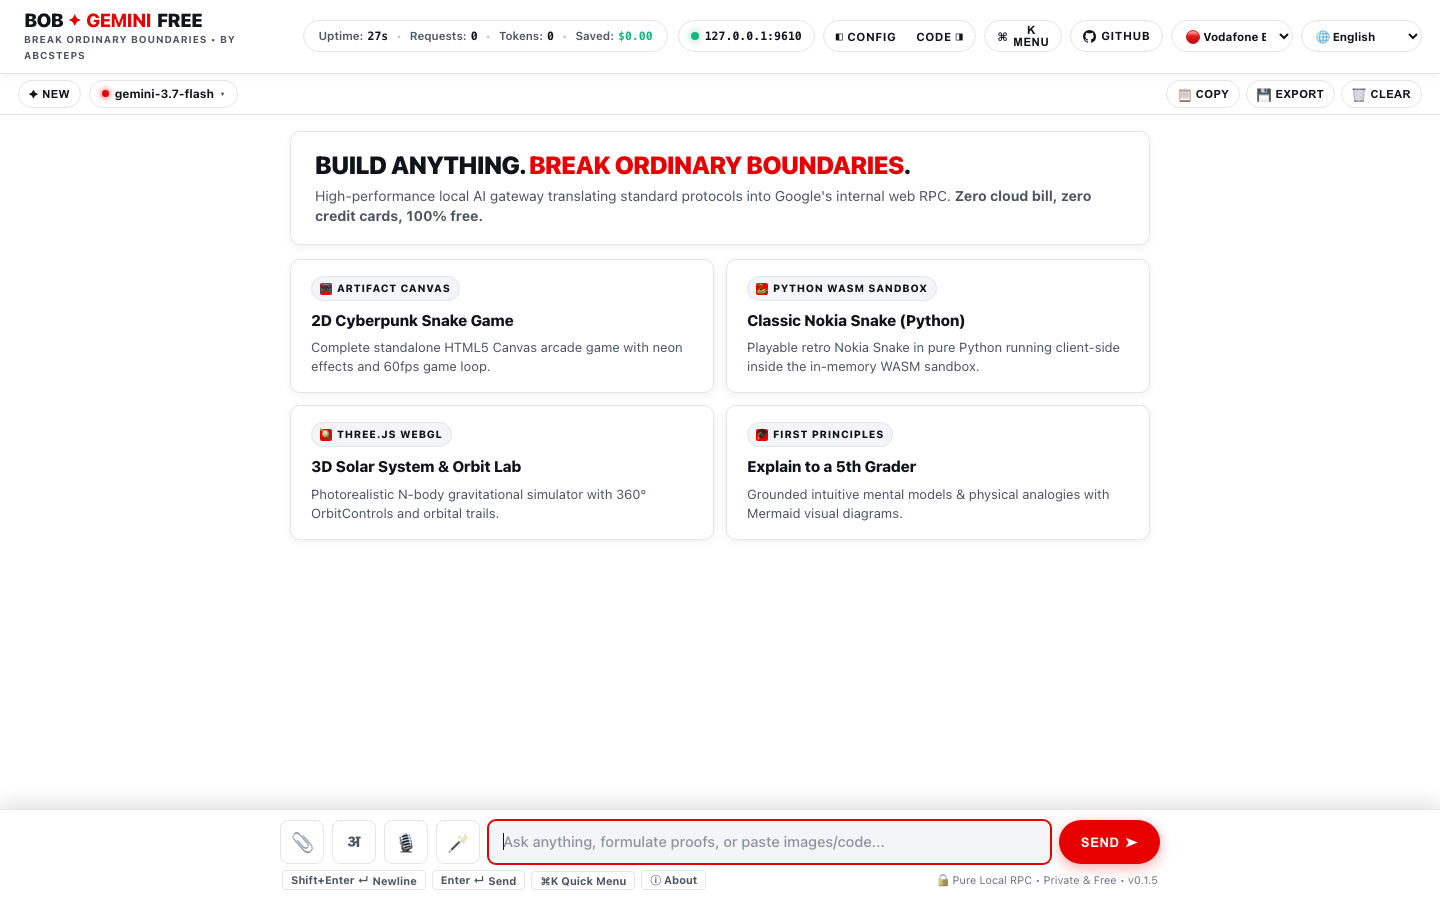
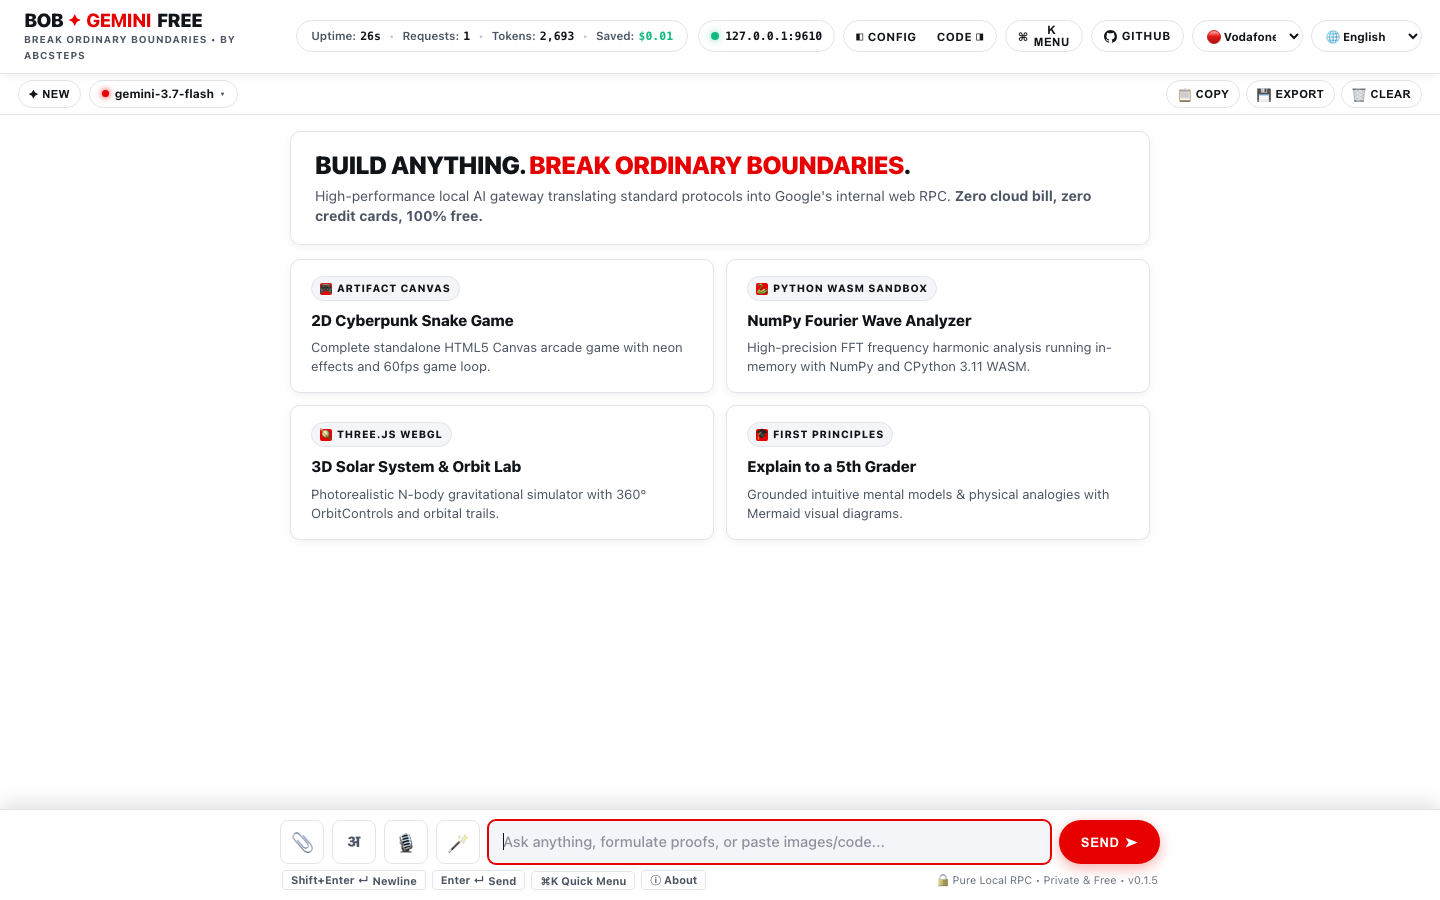
feat(ui): dedicate Snake to HTML5 Canvas Studio & showcase NumPy scientific FFT in Python WASM

Changed region(s): [[0.2188, 0.0311, 0.9688, 0.0622], [0.5, 0.3422, 0.7812, 0.4356]]

diff --git a/internal/server/playground.html b/internal/server/playground.html
@@ -3607,13 +3607,13 @@ tr:hover td { background: rgba(255, 255, 255, 0.02); }
               <div class="starter-card-title">2D Cyberpunk Snake Game</div>
               <div class="starter-card-desc">Complete standalone HTML5 Canvas arcade game with neon effects and 60fps game loop.</div>
             </div>
-            <div class="starter-card" onclick="selectStarter('py_snake')">
+            <div class="starter-card" onclick="selectStarter('py_fourier')">
               <div class="badge-chip">
                 <span class="mini-orb">🐍</span>
                 <span>PYTHON WASM SANDBOX</span>
               </div>
-              <div class="starter-card-title">Classic Nokia Snake (Python)</div>
-              <div class="starter-card-desc">Playable retro Nokia Snake in pure Python running client-side inside the in-memory WASM sandbox.</div>
+              <div class="starter-card-title">NumPy Fourier Wave Analyzer</div>
+              <div class="starter-card-desc">High-precision FFT frequency harmonic analysis running in-memory with NumPy and CPython 3.11 WASM.</div>
             </div>
             <div class="starter-card" onclick="selectStarter('orbit')">
               <div class="badge-chip">
@@ -3888,7 +3888,7 @@ const STARTER_PROMPTS_HI = {
   snake: "HTML5 Canvas में एक पूर्ण, स्टैंडअलोन 2D साइबरपंक स्नेक आर्केड गेम बनाएं। इसमें नियॉन ग्लो, खाना खाने पर कण विस्फोट (particles), बढ़ती कठिनाई, स्मूथ 60fps गेम लूप, हाई स्कोर ट्रैकिंग, Web Audio API ध्वनि प्रभाव और टच/तीर कुंजियों के नियंत्रण शामिल करें। संपूर्ण कोड एक ```html``` ब्लॉक में दें।",
   orbit: "Three.js (CDN के माध्यम से) का उपयोग करके HTML5 में एक पूर्ण, यथार्थवादी, इंटरैक्टिव 3D सौर मंडल व ग्रहीय कक्षा सिमुलेशन बनाएं। इसमें प्रकाशयुक्त सूर्य, G*m1*m2/r^2 गुरुत्वाकर्षण के साथ केप्लेरियन कक्षीय भौतिकी, चमकती कक्षीय रेखाएं, शनि के छल्ले, 360° OrbitControls (pan, rotate, zoom) और गति स्लाइडर शामिल करें। संपूर्ण कोड एक ```html``` ब्लॉक में दें।",
   compound: "Chart.js के साथ HTML5 में एक पूर्ण, स्टैंडअलोन इंटरैक्टिव वित्तीय चक्रवृद्धि ब्याज व धन वृद्धि कैलकुलेटर बनाएं। इसमें प्रारंभिक निवेश, मासिक योगदान, वार्षिक रिटर्न % और अवधि के लिए स्लाइडर्स शामिल करें। संचयी विकास का इंटरैक्टिव चार्ट प्रस्तुत करें। संपूर्ण कोड एक ```html``` ब्लॉक में दें।",
-  py_snake: "Pyodide WebAssembly के लिए शुद्ध Python में एक पूर्ण, रेट्रो नोकिया 3310 स्नेक गेम सिमुलेशन इंजन लिखें। इसमें 20x10 ASCII ग्रिड बोर्ड, गतिशील भोजन उत्पादन, स्नेक मूवमेंट, टकराव भौतिकी, स्कोर काउंटर और स्टेप-बाय-स्टेप स्क्रीन फ्रेम्स शामिल करें। ब्लॉकिंग input() या पॉपअप का उपयोग न करें ताकि यह सीधे चले। संपूर्ण कोड एक ```python``` ब्लॉक में दें।",
+  py_fourier: "Pyodide WebAssembly के लिए NumPy का उपयोग करके एक संपूर्ण वैज्ञानिक कम्प्यूटेशनल स्क्रिप्ट लिखें जो एक जटिल सिग्नल पर फास्ट फूरियर ट्रांसफॉर्म (FFT) विश्लेषण करे। पावर स्पेक्ट्रल घनत्व, पीक आवृत्तियों की गणना करें और एक संरचित ASCII स्पेक्ट्रम ग्राफ व मेट्रिक्स तालिका प्रिंट करें। संपूर्ण कोड एक ```python``` ब्लॉक में दें।",
   schrodinger: "डी ब्रोग्ली तरंग संबंधों और हैमिल्टनियन यांत्रिकी का उपयोग करते हुए प्रथम सिद्धांतों से समय-निर्भर श्रोडिंगर तरंग समीकरण (Time-Dependent Schrödinger Wave Equation) की KaTeX LaTeX गणितीय व्युत्पत्ति तैयार करें। प्रत्येक चरण को स्पष्ट समीकरणों के साथ समझाएं।",
   proof: "[विषय/सूत्र] के लिए चरण-दर-चरण गणितीय प्रमाण और KaTeX व्युत्पत्ति तैयार करें।",
   audit: "[सिस्टम/कोडबेस] का व्यापक प्रथम-सिद्धांत वास्तुकला विश्लेषण, सुरक्षा समीक्षा और तकनीकी बॉटलनेक ऑडिट करें।",
@@ -6250,7 +6250,7 @@ const STARTER_PROMPTS = {
   snake: "Build a complete, standalone 2D Cyberpunk Snake arcade game in HTML5 Canvas. Include neon glow aesthetics, particle explosions when eating food, increasing difficulty, smooth 60fps game loop, high score tracking, sound effects via Web Audio API, and touch + arrow key controls. Output the entire runnable code inside a single ```html``` block.",
   orbit: "Build a complete, photorealistic, interactive 3D Solar System & Planetary Orbit Simulation in standalone HTML5 using Three.js (via CDN). Include a glowing Sun with point light illumination, multi-planet Keplerian orbital mechanics with G*m1*m2/r^2 gravity, glowing orbital trail lines, textured planets, Saturn planetary rings, particle starfield galaxy background, full 360° OrbitControls (pan, rotate, mouse/touch zoom), and real-time physics controls (Simulation Speed 1x-100x, Pause/Play, Reset). Output the entire runnable self-contained code inside a single ```html``` block.",
   compound: "Build a complete, standalone interactive Financial Compound Wealth & Freedom Calculator in HTML5 with Chart.js. Include dynamic sliders for Initial Investment, Monthly Contribution, Annual Return %, and Investment Horizon (years). Render an interactive stacked growth chart showing Total Contributed vs Total Interest Earned, with inflation adjustment toggles and annual breakdown data tables. Output the entire runnable code inside a single ```html``` block.",
-  py_snake: "Write a complete, playable retro Nokia 3310 Snake game in pure Python for Pyodide WebAssembly. Build an animated simulation engine with a 20x10 ASCII grid board, dynamic fruit generation, real-time snake movement with collision physics, increasing speed levels, and step-by-step score telemetry. Do NOT use blocking input() or browser dialog popups—ensure it executes smoothly and renders clear ASCII screen frames. Output the entire runnable self-contained code inside a single ```python``` block so it runs directly in BOB's in-browser WebAssembly sandbox.",
+  py_fourier: "Write a complete Python scientific computing script using numpy to perform Fast Fourier Transform (FFT) harmonic analysis on a noisy composite signal (fundamental frequency + 3rd and 5th harmonics). Calculate power spectral density, peak frequencies, and print a formatted ASCII spectrum graph and signal metrics table. Output the entire runnable code inside a single ```python``` block so it runs instantly in BOB's in-browser CPython 3.11 WebAssembly sandbox.",
   schrodinger: "Derive the Time-Dependent Schrödinger Wave Equation from first principles using de Broglie matter wave relations (E = \\hbar\\omega, p = \\hbar k), the classical energy conservation equation (E = p^2/2m + V), and differential wave operators. Formulate every step with clean, rigorous KaTeX LaTeX mathematical notation, detailing boundary conditions, the physical meaning of the complex probability wave function \\Psi(x,t), and probability conservation. Output clear LaTeX equations.",
   quantum: "Explain the mathematical principles of quantum superposition and entanglement with step-by-step reasoning and Dirac bra-ket matrices.",
   python: "Write a complete Python script using the official openai-python SDK configured to stream responses from BOB Gemini Free at http://127.0.0.1:9610/v1 with model gemini-3.7-flash and extract reasoning_content thinking tokens in real-time.",
@@ -6296,13 +6296,13 @@ function renderMessages() {
           <div class="starter-card-title">2D Cyberpunk Snake Game</div>
           <div class="starter-card-desc">Complete standalone HTML5 Canvas arcade game with neon effects and 60fps game loop.</div>
         </div>
-        <div class="starter-card" onclick="selectStarter('py_snake')">
+        <div class="starter-card" onclick="selectStarter('py_fourier')">
           <div class="badge-chip">
             <span class="mini-orb">🐍</span>
             <span>PYTHON WASM SANDBOX</span>
           </div>
-          <div class="starter-card-title">Classic Nokia Snake (Python)</div>
-          <div class="starter-card-desc">Playable retro Nokia Snake in pure Python running client-side inside the in-memory WASM sandbox.</div>
+          <div class="starter-card-title">NumPy Fourier Wave Analyzer</div>
+          <div class="starter-card-desc">High-precision FFT frequency harmonic analysis running in-memory with NumPy and CPython 3.11 WASM.</div>
         </div>
         <div class="starter-card" onclick="selectStarter('orbit')">
           <div class="badge-chip">

diff --git a/web/index.html b/web/index.html
@@ -3607,13 +3607,13 @@ tr:hover td { background: rgba(255, 255, 255, 0.02); }
               <div class="starter-card-title">2D Cyberpunk Snake Game</div>
               <div class="starter-card-desc">Complete standalone HTML5 Canvas arcade game with neon effects and 60fps game loop.</div>
             </div>
-            <div class="starter-card" onclick="selectStarter('py_snake')">
+            <div class="starter-card" onclick="selectStarter('py_fourier')">
               <div class="badge-chip">
                 <span class="mini-orb">🐍</span>
                 <span>PYTHON WASM SANDBOX</span>
               </div>
-              <div class="starter-card-title">Classic Nokia Snake (Python)</div>
-              <div class="starter-card-desc">Playable retro Nokia Snake in pure Python running client-side inside the in-memory WASM sandbox.</div>
+              <div class="starter-card-title">NumPy Fourier Wave Analyzer</div>
+              <div class="starter-card-desc">High-precision FFT frequency harmonic analysis running in-memory with NumPy and CPython 3.11 WASM.</div>
             </div>
             <div class="starter-card" onclick="selectStarter('orbit')">
               <div class="badge-chip">
@@ -3888,7 +3888,7 @@ const STARTER_PROMPTS_HI = {
   snake: "HTML5 Canvas में एक पूर्ण, स्टैंडअलोन 2D साइबरपंक स्नेक आर्केड गेम बनाएं। इसमें नियॉन ग्लो, खाना खाने पर कण विस्फोट (particles), बढ़ती कठिनाई, स्मूथ 60fps गेम लूप, हाई स्कोर ट्रैकिंग, Web Audio API ध्वनि प्रभाव और टच/तीर कुंजियों के नियंत्रण शामिल करें। संपूर्ण कोड एक ```html``` ब्लॉक में दें।",
   orbit: "Three.js (CDN के माध्यम से) का उपयोग करके HTML5 में एक पूर्ण, यथार्थवादी, इंटरैक्टिव 3D सौर मंडल व ग्रहीय कक्षा सिमुलेशन बनाएं। इसमें प्रकाशयुक्त सूर्य, G*m1*m2/r^2 गुरुत्वाकर्षण के साथ केप्लेरियन कक्षीय भौतिकी, चमकती कक्षीय रेखाएं, शनि के छल्ले, 360° OrbitControls (pan, rotate, zoom) और गति स्लाइडर शामिल करें। संपूर्ण कोड एक ```html``` ब्लॉक में दें।",
   compound: "Chart.js के साथ HTML5 में एक पूर्ण, स्टैंडअलोन इंटरैक्टिव वित्तीय चक्रवृद्धि ब्याज व धन वृद्धि कैलकुलेटर बनाएं। इसमें प्रारंभिक निवेश, मासिक योगदान, वार्षिक रिटर्न % और अवधि के लिए स्लाइडर्स शामिल करें। संचयी विकास का इंटरैक्टिव चार्ट प्रस्तुत करें। संपूर्ण कोड एक ```html``` ब्लॉक में दें।",
-  py_snake: "Pyodide WebAssembly के लिए शुद्ध Python में एक पूर्ण, रेट्रो नोकिया 3310 स्नेक गेम सिमुलेशन इंजन लिखें। इसमें 20x10 ASCII ग्रिड बोर्ड, गतिशील भोजन उत्पादन, स्नेक मूवमेंट, टकराव भौतिकी, स्कोर काउंटर और स्टेप-बाय-स्टेप स्क्रीन फ्रेम्स शामिल करें। ब्लॉकिंग input() या पॉपअप का उपयोग न करें ताकि यह सीधे चले। संपूर्ण कोड एक ```python``` ब्लॉक में दें।",
+  py_fourier: "Pyodide WebAssembly के लिए NumPy का उपयोग करके एक संपूर्ण वैज्ञानिक कम्प्यूटेशनल स्क्रिप्ट लिखें जो एक जटिल सिग्नल पर फास्ट फूरियर ट्रांसफॉर्म (FFT) विश्लेषण करे। पावर स्पेक्ट्रल घनत्व, पीक आवृत्तियों की गणना करें और एक संरचित ASCII स्पेक्ट्रम ग्राफ व मेट्रिक्स तालिका प्रिंट करें। संपूर्ण कोड एक ```python``` ब्लॉक में दें।",
   schrodinger: "डी ब्रोग्ली तरंग संबंधों और हैमिल्टनियन यांत्रिकी का उपयोग करते हुए प्रथम सिद्धांतों से समय-निर्भर श्रोडिंगर तरंग समीकरण (Time-Dependent Schrödinger Wave Equation) की KaTeX LaTeX गणितीय व्युत्पत्ति तैयार करें। प्रत्येक चरण को स्पष्ट समीकरणों के साथ समझाएं।",
   proof: "[विषय/सूत्र] के लिए चरण-दर-चरण गणितीय प्रमाण और KaTeX व्युत्पत्ति तैयार करें।",
   audit: "[सिस्टम/कोडबेस] का व्यापक प्रथम-सिद्धांत वास्तुकला विश्लेषण, सुरक्षा समीक्षा और तकनीकी बॉटलनेक ऑडिट करें।",
@@ -6250,7 +6250,7 @@ const STARTER_PROMPTS = {
   snake: "Build a complete, standalone 2D Cyberpunk Snake arcade game in HTML5 Canvas. Include neon glow aesthetics, particle explosions when eating food, increasing difficulty, smooth 60fps game loop, high score tracking, sound effects via Web Audio API, and touch + arrow key controls. Output the entire runnable code inside a single ```html``` block.",
   orbit: "Build a complete, photorealistic, interactive 3D Solar System & Planetary Orbit Simulation in standalone HTML5 using Three.js (via CDN). Include a glowing Sun with point light illumination, multi-planet Keplerian orbital mechanics with G*m1*m2/r^2 gravity, glowing orbital trail lines, textured planets, Saturn planetary rings, particle starfield galaxy background, full 360° OrbitControls (pan, rotate, mouse/touch zoom), and real-time physics controls (Simulation Speed 1x-100x, Pause/Play, Reset). Output the entire runnable self-contained code inside a single ```html``` block.",
   compound: "Build a complete, standalone interactive Financial Compound Wealth & Freedom Calculator in HTML5 with Chart.js. Include dynamic sliders for Initial Investment, Monthly Contribution, Annual Return %, and Investment Horizon (years). Render an interactive stacked growth chart showing Total Contributed vs Total Interest Earned, with inflation adjustment toggles and annual breakdown data tables. Output the entire runnable code inside a single ```html``` block.",
-  py_snake: "Write a complete, playable retro Nokia 3310 Snake game in pure Python for Pyodide WebAssembly. Build an animated simulation engine with a 20x10 ASCII grid board, dynamic fruit generation, real-time snake movement with collision physics, increasing speed levels, and step-by-step score telemetry. Do NOT use blocking input() or browser dialog popups—ensure it executes smoothly and renders clear ASCII screen frames. Output the entire runnable self-contained code inside a single ```python``` block so it runs directly in BOB's in-browser WebAssembly sandbox.",
+  py_fourier: "Write a complete Python scientific computing script using numpy to perform Fast Fourier Transform (FFT) harmonic analysis on a noisy composite signal (fundamental frequency + 3rd and 5th harmonics). Calculate power spectral density, peak frequencies, and print a formatted ASCII spectrum graph and signal metrics table. Output the entire runnable code inside a single ```python``` block so it runs instantly in BOB's in-browser CPython 3.11 WebAssembly sandbox.",
   schrodinger: "Derive the Time-Dependent Schrödinger Wave Equation from first principles using de Broglie matter wave relations (E = \\hbar\\omega, p = \\hbar k), the classical energy conservation equation (E = p^2/2m + V), and differential wave operators. Formulate every step with clean, rigorous KaTeX LaTeX mathematical notation, detailing boundary conditions, the physical meaning of the complex probability wave function \\Psi(x,t), and probability conservation. Output clear LaTeX equations.",
   quantum: "Explain the mathematical principles of quantum superposition and entanglement with step-by-step reasoning and Dirac bra-ket matrices.",
   python: "Write a complete Python script using the official openai-python SDK configured to stream responses from BOB Gemini Free at http://127.0.0.1:9610/v1 with model gemini-3.7-flash and extract reasoning_content thinking tokens in real-time.",
@@ -6296,13 +6296,13 @@ function renderMessages() {
           <div class="starter-card-title">2D Cyberpunk Snake Game</div>
           <div class="starter-card-desc">Complete standalone HTML5 Canvas arcade game with neon effects and 60fps game loop.</div>
         </div>
-        <div class="starter-card" onclick="selectStarter('py_snake')">
+        <div class="starter-card" onclick="selectStarter('py_fourier')">
           <div class="badge-chip">
             <span class="mini-orb">🐍</span>
             <span>PYTHON WASM SANDBOX</span>
           </div>
-          <div class="starter-card-title">Classic Nokia Snake (Python)</div>
-          <div class="starter-card-desc">Playable retro Nokia Snake in pure Python running client-side inside the in-memory WASM sandbox.</div>
+          <div class="starter-card-title">NumPy Fourier Wave Analyzer</div>
+          <div class="starter-card-desc">High-precision FFT frequency harmonic analysis running in-memory with NumPy and CPython 3.11 WASM.</div>
         </div>
         <div class="starter-card" onclick="selectStarter('orbit')">
           <div class="badge-chip">
